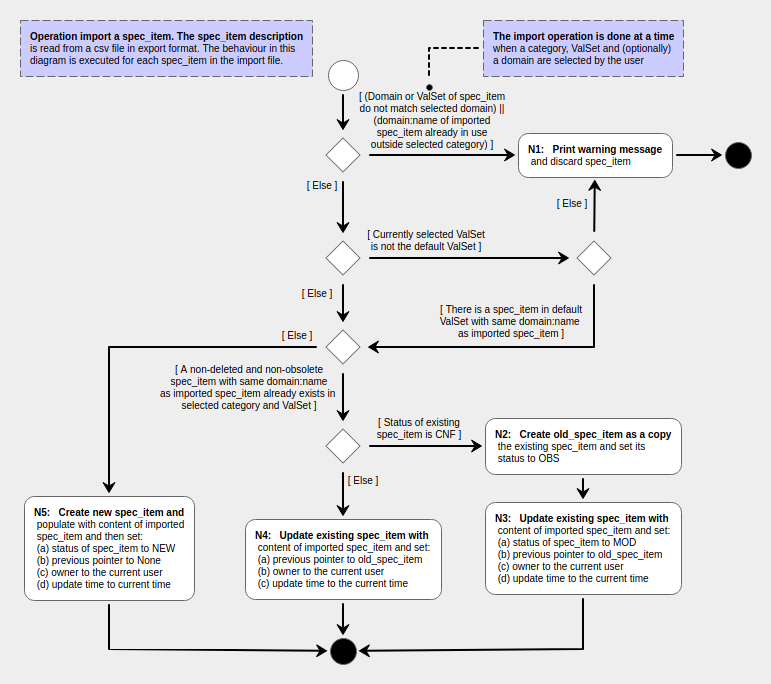
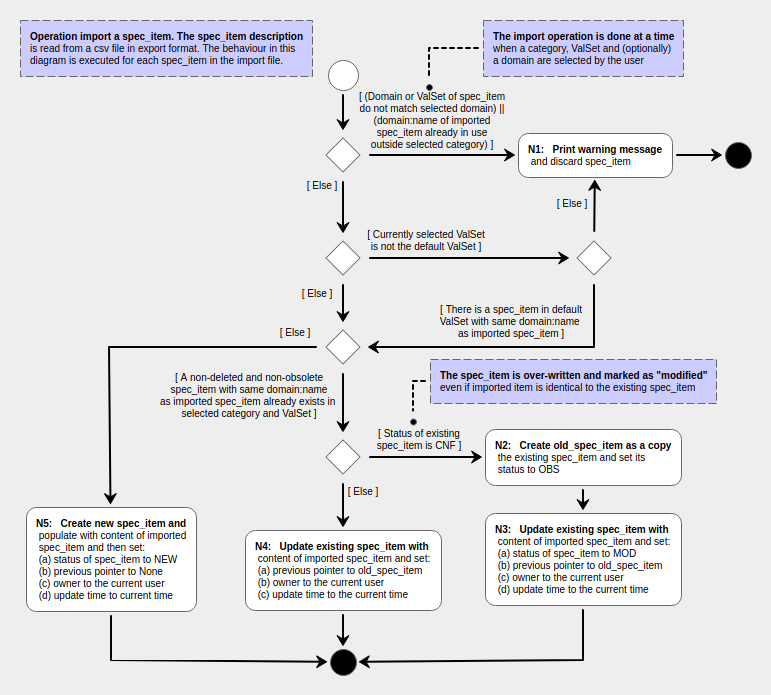
Added clrification concerning import of unchanged spec_items

diff --git a/editor/templates/help.html b/editor/templates/help.html
@@ -796,14 +796,25 @@
     <li>The update time is set to the current time</li>
     <li>If there is no item with the same domain:name in the selected category and ValSet,
         the status is set to NEW and the previous pointer is set to 'None'</li>
-    <li>If there is an item with the same domain:name in the selected category and ValSet,
+    <li>If there is a non-obsolete and non-deleted item with the same domain:name in the 
+        selected category and ValSet,
         a copy is made of the existing item. the status of the new item is set to MOD and
         its previous pointer is set to the newly-copied item</li>
     </ul>
-    Each imported specification item is processed according to the following activity diagram:
+    With respect to the last bullet, it is noted that the copy of the spec_item is made even
+    if the imported spec_item is identical to the spec_item with the same domain:name
+    in the database.
     <p></p>
-    <img src="{% static 'images/ImportSpecItem.png' %}"> 
+    The change_log attribute is defined for all spec_items and should be used to record the
+    reason for a change in the content of a spec_item.
+    The change_log attribute is imported alongside other attributes.
+    It is the responsibility of the user to enter an appropriate text in this field in the
+    import file.
+    <p></p>
+    Each imported specification item is processed according to the following activity diagram:
     <p>
+    <img src="{% static 'images/ImportSpecItem.png' %}"> 
+    </p>
     The typical use case for the plain import/export functions is as follows.
     A user needs to perform the same operation on a large number of specification items (e.g.
     update their names; capitalize their domain name; clear their values; etc).
